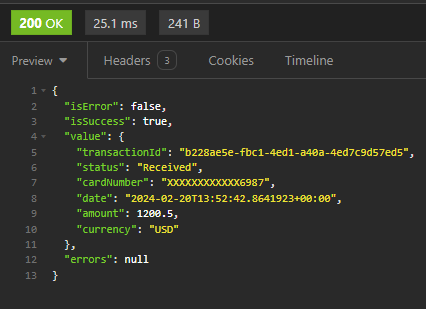
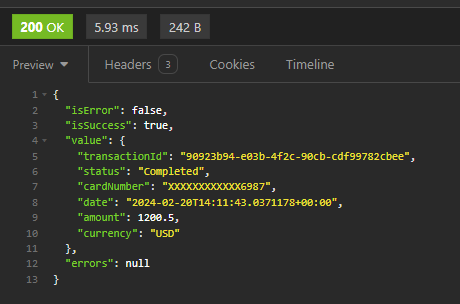
Readme

diff --git a/README.md b/README.md
@@ -59,3 +59,5 @@ Both `AcquiringBankSimulator` and `PaymentGateway.Api` should be started
 ```
 Returns 200
 
+### To check transaction update
+Repeat the steps on `Get payment request info`
